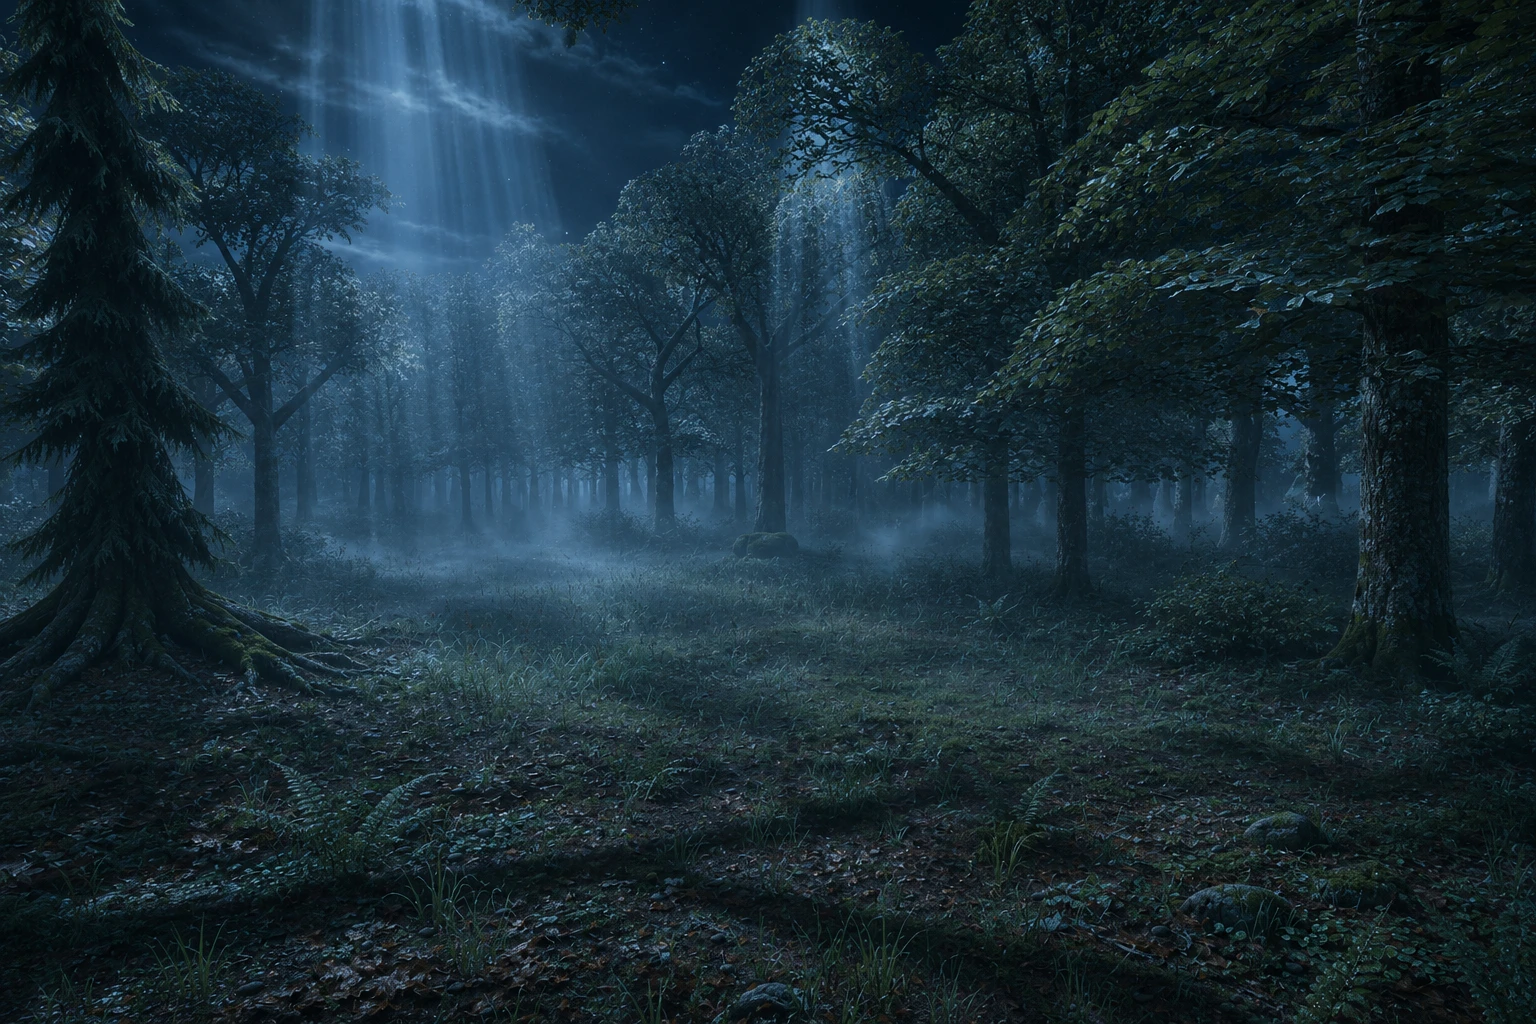
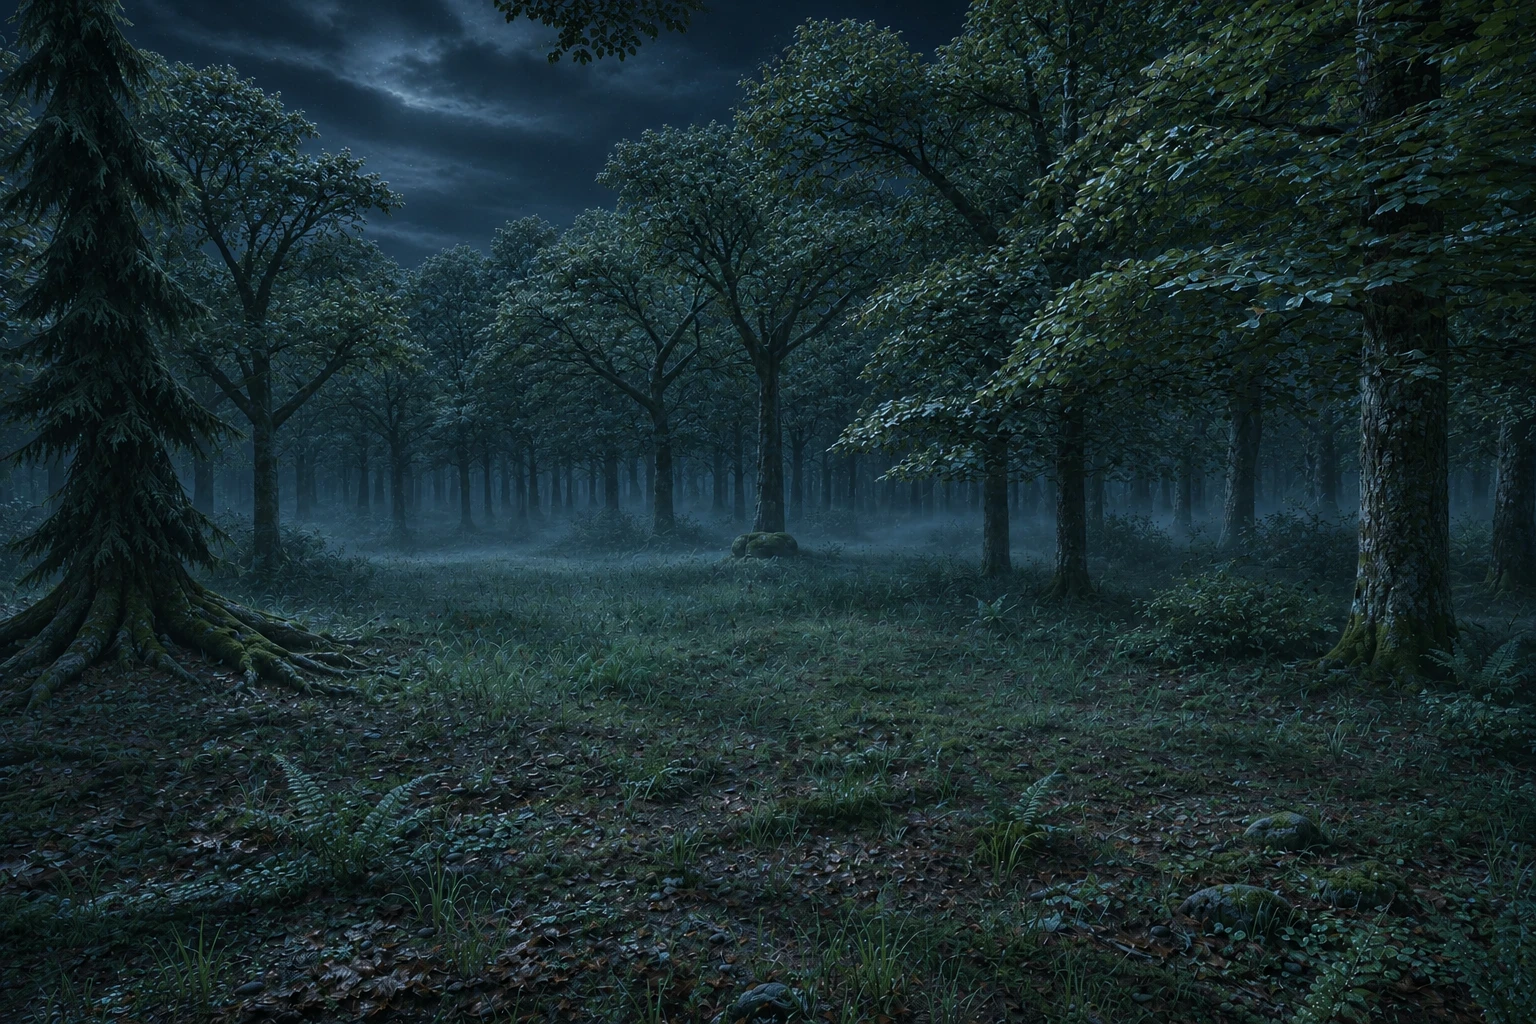
The Midnight Summons, audited as played: every shot and speaker's view captured with its cast and scored by fresh judges, 4.6 to 7.2. The trail's beams of moonlight from above are gone, from the set's light shafts and from the trail, clearing and oak paintings, retouched in place with natural limbs 

diff --git a/lab/stage-art/repaint.ts b/lab/stage-art/repaint.ts
@@ -36,6 +36,13 @@ ${KEEP}
 
 DETAIL Shot on a 24 mm lens, deep focus, fine film grain. A photograph, not a painting, not a 3D render.`,
   },
+  // A published painting retouched in place: the plate is the painting itself, and DETAIL says the only things to change.
+  retouch: {
+    art: false,
+    prompt: `The image is a finished photorealistic still of PLACE, from a big-budget fantasy film. Retouch it. Change only this: DETAIL
+
+Everything else stays exactly as it is: the composition, the framing, the light's direction and colour, and every tree, rock, building and object in the same place, at the same size, with the same outline, so the result lines up with the original pixel for pixel. Do not add people or animals. No text. A photograph, not a painting, not a 3D render.`,
+  },
   // What the build should reach, for the dream loop (.agents/skills/stage-dream-loop). A film still asks for more than the
   // engine draws, so this one asks for the game's own frame.
   target: {
@@ -96,7 +103,7 @@ async function main() {
   // and must stay down.
   const flags = argv.filter((a) => a.startsWith("--"))
   const [plate, style = "painterly", size = "2880x1920"] = argv.filter((a) => !a.startsWith("--"))
-  if (!plate || !(style in STYLES)) return console.log("usage: repaint.ts <plate> painterly|photoreal|target [size] [--cli] [--fill] [--sharpen] [--clear] [--as=name]")
+  if (!plate || !(style in STYLES)) return console.log("usage: repaint.ts <plate> painterly|photoreal|target|retouch [size] [--cli] [--fill] [--sharpen] [--clear] [--as=name]")
   const s = STYLES[style as keyof typeof STYLES]
   const cli = flags.includes("--cli")
   const prompt = `${worded(s.prompt, flags)}${flags.includes("--fill") ? `\n\n${FILL}` : ""}${flags.includes("--sharpen") ? `\n\n${SHARPEN}` : ""}${flags.includes("--clear") ? `\n\n${CLEAR}` : ""}`
@@ -115,7 +122,7 @@ async function main() {
     .resize(w, Math.round((w * height) / width), { fit: "fill" })
     .png()
     .toFile(`${out}.png`)
-  await copyFile(`${RAW}/captures/${plate}.json`, `${out}.json`)
+  if (style !== "retouch") await copyFile(`${RAW}/captures/${plate}.json`, `${out}.json`)
   await sharp(png).jpeg({ quality: 92 }).toFile(`${DESKTOP}/${name}.jpg`)
   const m = await sharp(png).metadata()
   console.log(`${out}.png from ${m.width}x${m.height}`)

diff --git a/lab/stage-art/capture.ts b/lab/stage-art/capture.ts
@@ -144,8 +144,13 @@ async function main() {
     }
     console.log(`${name}-${clip} x${count}`)
   }
-  for (const shot of shots) {
-    await ev(`window.__stage.shot(${JSON.stringify(shot)}, { instant: true })`)
+  // --heroes: each cast member's speaker view as well, framed as stage:check's HERO_SHOT, as <name>-on-<id>.png.
+  const views: [string, unknown][] = shots.map((s) => [s, s])
+  if (process.argv.includes("--heroes"))
+    for (const c of await ev<string[]>("window.__stage.cast.map(c => c.id)"))
+      views.push([`on-${c.split("/").pop()}`, { subject: c, distance: 4, angle: 18, height: 1.6, lookHeight: 1.1, fov: 40 }])
+  for (const [shot, which] of views) {
+    await ev(`window.__stage.shot(${JSON.stringify(which)}, { instant: true })`)
     await delay(1500)
     // --do=<expression>: run in the page once the shot is up, before it is captured. For a hand on the camera.
     if (arg("do")) {

diff --git a/packages/stage/src/stage.ts b/packages/stage/src/stage.ts
@@ -548,6 +548,9 @@ export class Stage {
     if (this.painted && painted) {
       const plate = new Set(this.plate)
       this.painted.bake(this.scene, [...this.world.children.filter((c) => !plate.has(c)), this.sky])
+      // The paintings' sky holds the painter's own far hills. The built backdrop, which takes no paint, would show
+      // through every gap between painted trees as a band of flat colour.
+      for (const c of this.world.children) if (c.name === "backdrop") c.visible = false
       // The brush filter is for the engine's own shading. A painting is finished art.
       this.applyTier()
       if (this.o.controls !== false)

diff --git a/lab/stage-art/README.md b/lab/stage-art/README.md
@@ -268,6 +268,14 @@ Portraits, the same day. The turn order and the character card showed the painte
 - The app (`portraitFor` in `apps/desktop/src/scenes.ts`) shows the photograph's portrait when the scene's set is painted, and the painted one on a built set, so the face in the turn order is the one on the stage. With no scene to go by, the scene the portrait was found in decides.
 - The app reads the list of photographed cards from `apps/desktop/src/photoreal.json`, a copy `publish` writes beside `public/stage/photoreal.json`: a website deploy leaves `public/stage` out, and the site type checks the app's files.
 
+The Midnight Summons audited as played, 2026-11-23. Every shot and speaker's view of six stagings captured with the cast (`capture.ts --heroes`), scored by fresh judges on shape, materials, light, fit and close up, as in the dream loop but with no target. Owner: no heavy beams of light from above, no unrealistic tree limbs.
+
+- Round 0: 4.6 to 7.2. Seven of the trail's paintings carry beams of light, most likely painted from the set's two `lightShaft`s in their plates.
+- The trail's light shafts are gone from the set. `trail`, `clearing`, `oak` and the cottage's `porch` were retouched in place (`repaint.ts <painting-as-plate> retouch --cli`, edges within 8 px 97 to 99%): no beams, natural limbs, the bow on the sill strung, the lantern unlit by day.
+- Flat teal bands along the cottage's far woods were the set's backdrop, which takes no paint and showed through gaps between painted trees. A painted set now hides its backdrops once the paintings are up.
+- The night sets' cards are graded cooler: `light` `#8a9cc2` on the trail, `#8fa2c6` at the stones.
+- Not yet retouched, the image tool at its limit: `fallen`, `standoff`, `fight` and `druid` (lighter beams), and `home` and `home-2` (the hoop and the lit lantern).
+
 Known limits:
 
 - A view lies inside one painting. It cannot straddle two.
@@ -338,7 +346,7 @@ Toggles in the panel switch each spike. `?clip=thalbern-h3-idle` plays the H3 lo
 | `paintover.ts` | Paints over a plate, and scores edge drift. |
 | `animate.ts` | Puts a standee on green, animates it with H3 or Veo, keys and packs it. |
 | `capture.ts` | Captures and records lab views over CDP. |
-| `repaint.ts` | Repaints a shot's plate or a 360 panorama with GPT Image 2, painterly or photoreal. `target` paints what a build should reach, for the `stage-dream-loop` skill. |
+| `repaint.ts` | Repaints a shot's plate or a 360 panorama with GPT Image 2, painterly or photoreal. `target` paints what a build should reach, for the `stage-dream-loop` skill. `retouch` changes only what `--detail` names in a published painting. |
 | `marble.ts` | World Labs: credits, depth to panorama, panorama to splat world. |
 | `character.ts` | A standee redrawn as an A-pose sheet, then a rigged 3D model from Meshy on fal. |
 | `cards.ts` | The cast's cards repainted as photographs through the Codex CLI, and cut out. |
